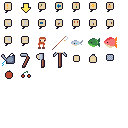
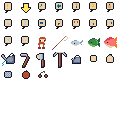
SAVE

diff --git a/packages/farm-valley/src/main/render-loop.ts b/packages/farm-valley/src/main/render-loop.ts
@@ -1,7 +1,7 @@
 import { Keyboard, ParticleSystem, Profiler, RainField, expSmooth } from "@engine/core";
 import { EDG } from "@engine/core";
 import type { WeatherKind, RendererLike } from "@engine/core";
-import { pushSnapshotSprites, pushOccluderSprites, pushBuildingSprites, pushBridgeSprites, frameToAtlasId, COASTLINE_BUBBLE_TILES, FORGE_OVEN_TILE, FORGE_CHIMNEY_PX, WEATHER_BEACON_PX, sampleCycle, cycleIndex, walkStepsBetween, FOAM_CLIP, FORGE_FIRE_CLIP, FORGE_SMOKE_CLIP, WATERFALL_FALL_CLIP, CAMPFIRE_CLIP, WEATHER_BEACON_CLIP } from "@farm/sim-core/render-systems";
+import { pushSnapshotSprites, pushOccluderSprites, pushBuildingSprites, pushBridgeSprites, frameToAtlasId, COASTLINE_BUBBLE_TILES, FORGE_OVEN_TILE, FORGE_CHIMNEY_PX, WEATHER_BEACON_PX, sampleCycle, cycleIndex, walkStepsBetween, ACTION_POSE, FOAM_CLIP, FORGE_FIRE_CLIP, FORGE_SMOKE_CLIP, WATERFALL_FALL_CLIP, CAMPFIRE_CLIP, WEATHER_BEACON_CLIP } from "@farm/sim-core/render-systems";
 import type { JuiceLayer } from "./juice";
 import { WATERFALL_TILE, CAMPFIRE_TILE, VOLCANO_CRATER_TILE, CASINO_NEON_TILE, isWalkable } from "@farm/sim-core/world/regions";
 import { washFor, nightnessFor } from "../render/day-night";
@@ -54,6 +54,19 @@ interface RendererWithCloudOptions {
 function supportsCloudOptions(r: RendererLike): r is RendererLike & RendererWithCloudOptions {
   return typeof (r as Partial<RendererWithCloudOptions>).setCloudOptions === "function";
 }
+
+// Where Pip's carried tool sits relative to the body, per facing (world px from sprite centre).
+// `behind` draws the tool behind the body (facing away). Hand-tuned against the 24×24 frames;
+// adjust here after an in-browser look (brief 89, Phase A). `side` mirrors via flipX.
+const HELD_TOOL_ANCHOR: Record<"down" | "up" | "side", { dx: number; dy: number; behind: boolean }> = {
+  down: { dx: 5, dy: 2, behind: false },
+  side: { dx: 5, dy: 2, behind: false },
+  up: { dx: 5, dy: 2, behind: true },
+};
+// Carried tools are hand-sized, not body-sized: draw at a fraction of the tile footprint.
+const HELD_TOOL_SCALE = 0.6;
+// The hotbar can icon is drawn mid-pour; swap to the upright at-rest sprite when merely carried.
+const HELD_TOOL_FRAME: Record<string, string> = { "tool/can": "tool/can-held" };
 
 export interface RenderLoopDeps {
   client: SimClient;
@@ -581,6 +594,40 @@ export function createRenderLoop(deps: RenderLoopDeps): () => void {
           sizeMin: 0.5, sizeMax: 1.1,
           gravity: 26, // settles back down
         });
+      }
+
+      // Carried hotbar tool (brief 89, Phase A): Pip visibly holds the selected tool while idle/
+      // walking. Hybrid — during a tool ACTION the pose's baked tool shows instead (skip overlay).
+      // Pixel-safe: a per-facing held sprite + flipX, no rotation; rides the body at a hand offset.
+      // AI farmers carry nothing between actions (no hotbar). Tune offsets in HELD_TOOL_ANCHOR.
+      const hb = client.playerHotbar;
+      const heldSlot = hb ? hb.slots[hb.selected] : undefined;
+      const heldFrame = heldSlot?.frame;
+      if (playerFarmerId !== null && heldFrame && heldFrame.startsWith("tool/")) {
+        for (const s of interpolatedSprites) {
+          if (s.id !== playerFarmerId) continue;
+          if (s.action !== null && s.action in ACTION_POSE) break; // baked tool pose is showing
+          const facing = s.facing ?? "down";
+          const a = HELD_TOOL_ANCHOR[facing];
+          const flip = facing === "side" ? (s.flipX ?? false) : false;
+          const toolFrame = HELD_TOOL_FRAME[heldFrame] ?? heldFrame;
+          const size = TILE * HELD_TOOL_SCALE; // hand-sized, not body-sized
+          renderer.push({
+            x: s.x + (flip ? -a.dx : a.dx),
+            y: s.y + a.dy,
+            width: size,
+            height: size,
+            frame: toolFrame,
+            atlasId: frameToAtlasId(toolFrame),
+            rotation: 0,
+            layer: s.layer,
+            // Sort just in front of / behind the body (behind when facing away).
+            sortY: s.y + (a.behind ? -0.1 : 0.1),
+            alpha: 1,
+            flipX: flip,
+          });
+          break;
+        }
       }
     });
 

diff --git a/tools/atlas-builder/src/recipes/assets/tool/can-held.ts b/tools/atlas-builder/src/recipes/assets/tool/can-held.ts
@@ -1,0 +1,29 @@
+import { type PixelRecipe } from "../../types";
+
+// Upright, at-rest watering can for the CARRIED-tool overlay (brief 89 Phase A). The hotbar
+// icon `tool/can` is drawn mid-pour (angled spout + water drops), which reads wrong when simply
+// held — this compact upright variant sits in the hand instead. Drawn small/centred.
+const recipe: PixelRecipe = {
+  name: "tool/can-held",
+  size: 16,
+  pixels: [
+    "................",
+    "................",
+    "................",
+    ".......kkk......",
+    "......k...k.....",
+    ".....kSSSSSk....",
+    "...kqkSssssk....",
+    "..kqSSsssssk....",
+    "...kSssssssk....",
+    "...kSssssssk....",
+    "...kSSSSSSSk....",
+    "...kkkkkkkkk....",
+    "................",
+    "................",
+    "................",
+    "................",
+  ],
+};
+
+export default recipe;

diff --git a/tools/atlas-builder/src/recipes/assets/assets.test.ts b/tools/atlas-builder/src/recipes/assets/assets.test.ts
@@ -56,9 +56,9 @@ describe("asset file path matches recipe name", () => {
     expect(mismatches, "path ↔ name mismatches:\n" + mismatches.join("\n")).toHaveLength(0);
   });
 
-  it("the barrel BASE_RECIPES has 203 entries (one per asset file)", () => {
-    expect(allAssetFiles).toHaveLength(203);
-    expect(BASE_RECIPES).toHaveLength(203);
+  it("the barrel BASE_RECIPES has 204 entries (one per asset file)", () => {
+    expect(allAssetFiles).toHaveLength(204);
+    expect(BASE_RECIPES).toHaveLength(204);
   });
 });
 

diff --git a/tools/atlas-builder/src/recipes/assets/index.ts b/tools/atlas-builder/src/recipes/assets/index.ts
@@ -206,6 +206,7 @@ import r211 from "./decoration/fish-blue-a";
 import r212 from "./decoration/fish-blue-b";
 import r213 from "./decoration/fish-yellow-a";
 import r214 from "./decoration/fish-yellow-b";
+import r215 from "./tool/can-held";
 
 export const BASE_RECIPES: readonly PixelRecipe[] = [
   r0,
@@ -411,5 +412,6 @@ export const BASE_RECIPES: readonly PixelRecipe[] = [
   r212,
   r213,
   r214,
+  r215,
 ];
 

diff --git a/packages/sim-core/src/render-systems/index.ts b/packages/sim-core/src/render-systems/index.ts
@@ -3,6 +3,7 @@ export {
   isFarmerMoving,
   walkStepsBetween,
   enumerateFarmerFrames,
+  ACTION_POSE,
   FOAM_FRAMES,
   FISHING_SPOT_FRAMES,
   FORGE_FIRE_FRAMES,

diff --git a/corpus/log.md b/corpus/log.md
@@ -2,6 +2,14 @@
 
 Append-only chronological record. Each entry starts with `## [YYYY-MM-DD] <kind> | <title>` so `grep '^## \[' log.md` produces a readable timeline.
 
+## [2026-06-12] feature | 89 Phase A — Pip's carried hotbar tool (render-side overlay)
+
+Wired the held-tool overlay (the brief-89 prize). Render-only, no wire-format change; typecheck + farm-valley 182 / atlas 15 / render-systems 57 green.
+
+- **Pip holds the selected hotbar tool while idle/walking.** Render-loop reads `client.playerHotbar.slots[selected].frame`; if it's a `tool/*` item and Pip isn't mid tool-action (`s.action in ACTION_POSE` → the pose's baked tool shows instead, so no double tool), it pushes the tool sprite at a per-facing **hand anchor** (`HELD_TOOL_ANCHOR` — world-px offsets, tunable after the feel-check), `flipX` for leftward `side`, **no rotation** (pixel-safe), sorted in-front/behind the body by facing. `ACTION_POSE` exported from the render-systems barrel for the gate.
+- **Hybrid honored:** AI farmers carry nothing between actions (no hotbar); their tool only appears baked in the action pose. Tools = `tool/*` only (seeds/crops/fish → empty hands).
+- **Open:** in-browser feel-check (tune anchor offsets); action poses + the tool sprites themselves are still 16px (deferred 24px passes).
+
 ## [2026-06-12] done | improvement backlog shipped — engine 10–16 + game 86–87 merged, 88 closed user-verified
 
 The ten-brief backlog filed earlier today was implemented the same day: one git worktree + branch per brief, Sonnet executor agents, each branch verified (typecheck + workspace tests) and merged to main individually before the next started. All nine code briefs landed green; brief 88 closed without code (the user executed the real-VPS deploy and confirmed it works). Briefs moved to `done/`; per-brief detail now in [wiki/status.md](wiki/status.md) "Where things stand".

diff --git a/corpus/briefs/game/todo/89-detailed-characters-and-held-tools.md b/corpus/briefs/game/todo/89-detailed-characters-and-held-tools.md
@@ -6,7 +6,9 @@ Synthesis/context: [wiki/animation.md](../../../wiki/animation.md). Builds on th
 > - **B1 (style gate):** a 24×24 conservative slice rendered over the 16px grass read fine (more refined, same art family) — gate passed.
 > - **B2 (locomotion → 24×24):** down/up/side idle+walk are now generated from shared 24×24 templates × `PERSONALITY_SUBS` + a size-aware hat overlay (`PERSONALITY_HATS_24`). The 4 per-personality down files + `PIP_DOWN_TEMPLATES` were **removed/unified** into `DOWN_TEMPLATES`; all farmer/Pip frames now flow through one pipeline (`recipes/index.ts` `generateFarmer`). Heads are hair-only (cap = hat overlay). `BASE_RECIPES` 215→**203** (12 files deleted). Frame size now follows each template's grid (24 locomotion, 16 action). Atlas rebuilds clean; `enumerateFarmerFrames` guard + atlas-builder/render-systems tests green; typecheck green.
 > - **Deliberately deferred:** the 7 action poses + 7 `-b` stay at **16px** this pass (proven art). They render into the same 1-tile footprint, so a working farmer is slightly chunkier than a walking one — feel-check whether that cross-state crispness delta is acceptable; if not, a 24px action pass is the follow-up (done with previews, not a blind dump).
-> - **Next:** in-browser feel-check of the 24px cast; then **Phase A** (hand-anchor + carried-tool overlay for Pip).
+> - **Phase A (carried tool) — wired 2026-06-12:** Pip now holds the **selected hotbar tool** while idle/walking. Render-loop reads `client.playerHotbar.slots[selected].frame`; if it's a `tool/*` item and Pip isn't mid tool-action (`s.action in ACTION_POSE` → the baked pose shows instead), it pushes the tool sprite at a per-facing **hand anchor** (`HELD_TOOL_ANCHOR`, world-px offsets), `flipX` for left, **no rotation**, sorted in-front/behind by facing. AI farmers carry nothing (no hotbar). No wire-format change. typecheck + farm-valley/sim-core/atlas tests green.
+> - **Phase A fix (feel-check round 1):** user showed the carried can was **body-sized + in the pouring pose**. Fixed: `HELD_TOOL_SCALE=0.6` (hand-sized, drawn via width/height), offset bumped to `dx5/dy2`, and a new upright at-rest `tool/can-held` sprite that the overlay swaps in for `tool/can` (`HELD_TOOL_FRAME` map). Verified against a render preview before wiring. `BASE_RECIPES` 204.
+> - **Next / open:** re-check in-browser (carried can size/position now; do hoe/axe/pickaxe — upright icons scaled 0.6 — also read OK held?). Remaining deferred: **24px action poses** (still 16px) + re-drawing the tool sprites at 24-matched detail. Once the feel-check passes, brief 89 closes to done/.
 
 ## Goal & what this explicitly is / isn't
 